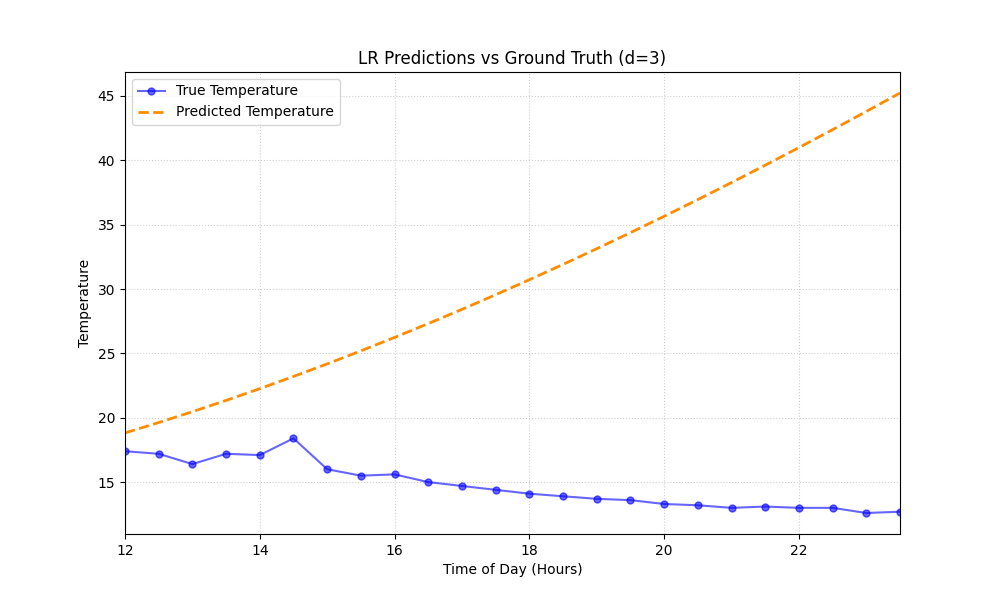
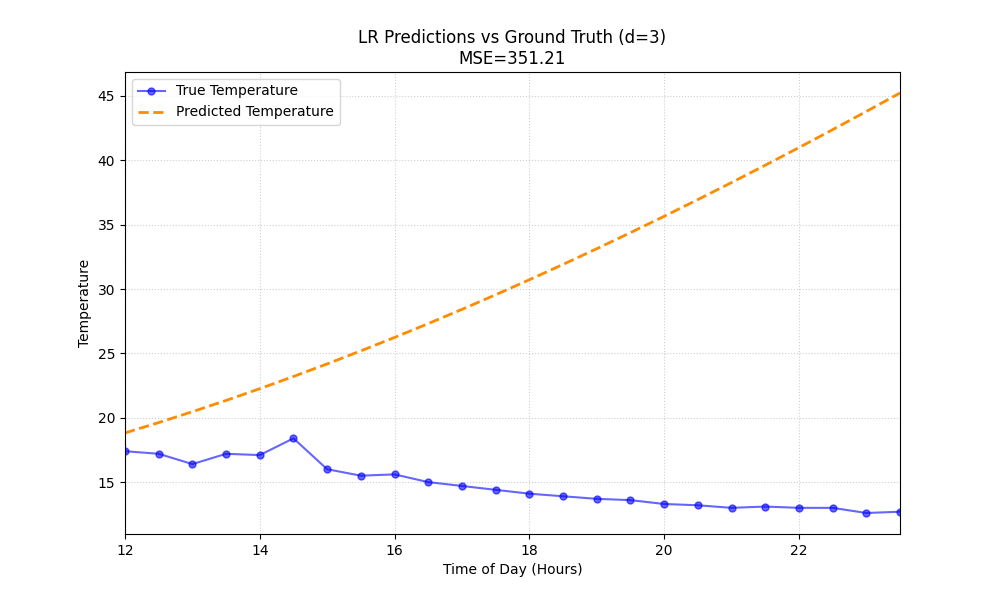
completed code for task 5 in the assignment

Changed region(s): [[0.341, 0.03, 0.682, 0.12]]

diff --git a/code/ex2.py b/code/ex2.py
@@ -1,10 +1,9 @@
+from matplotlib.lines import Line2D
 import numpy as np
 from matplotlib import pyplot as plt
 from typing import Callable
 from os import path
-from ex2_utils import plot_predictions_gt
-
-DATA_DIRECTORY = path.abspath('data/')
+from ex2_utils import plot_predictions_gt, DATA_DIRECTORY
 
 def polynomial_basis_functions(degree: int) -> Callable:
     """
@@ -63,7 +62,8 @@ def learn_prior(hours: np.ndarray, temps: np.ndarray, basis_func: Callable) -> t
     for i, t in enumerate(temps):
         ln = LinearRegression(basis_func).fit(hours, t)
         # todo <your code here>
-        thetas.append(None)  # append learned parameters here
+        theta_vec = ln.theta
+        thetas.append(theta_vec)  # append learned parameters here
 
     thetas = np.array(thetas)
 
@@ -112,9 +112,15 @@ class BayesianLinearRegression:
         """
         # todo <your code here>
         d_matrix = self.basis_functions(X)
-        if hasattr(self, 'post_mean'):
-            return d_matrix @ self.post_mean
-        return None
+        current_mean = self.prior_mean if not hasattr(self, 'post_mean') else self.post_mean
+        pred_mean = d_matrix @ current_mean
+        epistemic_variance = np.diag(d_matrix @ (self.prior_cov if not hasattr(self, 'post_cov') else self.post_cov) @ d_matrix.T)
+
+        total_variance = epistemic_variance + (self.sigma ** 2)
+
+        pred_std = np.sqrt(total_variance)
+        
+        return pred_mean, pred_std
 
     def fit_predict(self, X: np.ndarray, y: np.ndarray) -> np.ndarray:
         """
@@ -193,6 +199,114 @@ class LinearRegression:
         self.fit(X, y)
         return self.predict(X)
 
+def plot_predictions_for_bayesian_model(
+        train_hours: np.ndarray,
+        train_temps: np.ndarray,
+        predict_hours: np.ndarray,
+        predicted_mean_temps: np.ndarray,
+        pred_std: np.ndarray,
+        title: str,
+        save_path: str,
+        model: BayesianLinearRegression,
+        num_samples: int = 5
+    ):
+    """    
+    Args:
+    train_hours (np.array of shape (hours,)): The input hours used for training.
+    train_temps (np.array of shape (number of years, hours)): the observed temperatures used for training.
+    predict_hours (np.array of shape (hours,)): The input hours for which predictions are made.
+    predicted_mean_temps (np.array of shape (hours,)): The mean predicted temperatures from the model.
+    pred_std (np.array of shape (hours,)): The standard deviation of the predicted temperatures.
+    title (str): Title for the graph.
+    save_path (str): Path to save the plotted graph.
+    model: BayesianLinearRegression, the Bayesian linear regression model.
+    num_samples (int): Number of prior samples to plot.
+    """
+    plt.figure(figsize=(10, 6))
+    
+    plt.plot(train_hours, train_temps[0], color='gray', alpha=0.3, linewidth=1, label='Historical Data', zorder=1)
+    for i in range(1, len(train_temps)):
+        plt.plot(train_hours, train_temps[i], color='gray', alpha=0.3, linewidth=1, label='Historical Data', zorder=1)
+    
+    plt.plot(predict_hours, predicted_mean_temps, color='black', linewidth=3, label='Prior Mean', zorder=3)
+
+    plt.fill_between(predict_hours,
+                     predicted_mean_temps - pred_std, 
+                     predicted_mean_temps + pred_std, 
+                     color='blue', alpha=0.2, label='Confidence Interval (1$\sigma$)', zorder=2)
+    
+    jitter = 1e-6 * np.eye(len(model.prior_cov))
+    safe_cov = model.prior_cov + jitter
+    sampled_thetas = np.random.multivariate_normal(model.prior_mean, safe_cov, num_samples)
+    Phi_dense = model.basis_functions(predict_hours)
+    for i, theta_sample in enumerate(sampled_thetas):
+        # Calculate curve: y = Phi * theta
+        y_sample = Phi_dense @ theta_sample
+        plt.plot(predict_hours, y_sample, linestyle='--', linewidth=1, alpha=0.8, label=f'Prior Sample {i+1}', zorder=4)
+
+
+    # 5. Styling
+    plt.title(title)
+    plt.xlabel('Time of Day (Hours)')
+    plt.ylabel('Temperature')
+    plt.xlim(0, 24)
+    # Use a smart legend that doesn't show every single history line
+    handles, labels = plt.gca().get_legend_handles_labels()
+    # Filter out duplicate labels if necessary, though Matplotlib usually handles unique labels well
+    by_label = dict(zip(labels, handles))
+    if 'Historical Data' in by_label:
+        by_label['Historical Data'] = Line2D([0], [0], color='gray', linewidth=1)
+        
+    plt.legend(by_label.values(), by_label.keys(), loc='upper left', fontsize='small')
+    
+    plt.grid(True, linestyle='--', alpha=0.5)
+    plt.savefig(save_path)
+    
+    # plt.show()
+
+def classical_linear_regression(train_hours, train_temperature, test_hours, test_temperatures, degrees):
+    for d in degrees:
+        ln = LinearRegression(polynomial_basis_functions(d)).fit(train_hours, train_temperature)
+
+        # print average squared error performance
+        pred_mean = ln.predict(test_hours)
+        squared_errors = (test_temperatures - pred_mean) ** 2
+        mse = np.mean(squared_errors)
+        print(f'Average squared error with LR and d={d} is {mse:.2f}')
+        
+        # plot graphs for linear regression part
+        # todo <your code here>
+        plot_predictions_gt(hours=test_hours,
+                            true_temps=test_temperatures,
+                            predicted_temps=pred_mean,
+                            save_path=path.join(DATA_DIRECTORY, f'true_vs_pred_temps_d{d}_lr.png'),
+                            title=f'LR Predictions vs Ground Truth (d={d})\nMSE={mse:.2f}')
+
+def bayesian_linear_regression(degrees, hours, temps, sigma):
+    for deg in degrees:
+        pbf = polynomial_basis_functions(deg)
+        mu, cov = learn_prior(hours, temps, pbf)
+
+        blr = BayesianLinearRegression(mu, cov, sigma, pbf)
+
+        # plot prior graphs
+        hours_to_predict = np.arange(0, 24, 0.1)
+        pred_mean, pred_std = blr.predict(hours_to_predict)
+        plot_predictions_for_bayesian_model(
+            train_hours=hours,
+            train_temps=temps,
+            predict_hours=hours_to_predict,
+            predicted_mean_temps=pred_mean,
+            pred_std=pred_std,
+            deg=deg,
+            title=f'Bayesian LR - Prior Predictions (Degree={deg})',
+            save_path=path.join(DATA_DIRECTORY, f'bayesian_lr_prior_deg{deg}.png'),
+            model=blr,
+        )
+
+
+        # plot posterior graphs
+        # todo <your code here>
 
 def main():
     nov_16_path = path.join(DATA_DIRECTORY, 'nov162024.npy')
@@ -208,22 +322,7 @@ def main():
     degrees = [3, 7]
 
     # ----------------------------------------- Classical Linear Regression
-    for d in degrees:
-        ln = LinearRegression(polynomial_basis_functions(d)).fit(train_hours, train_temperature)
-
-        # print average squared error performance
-        predictions = ln.predict(test_hours)
-        squared_errors = (test_temperatures - predictions) ** 2
-        mse = np.mean(squared_errors)
-        print(f'Average squared error with LR and d={d} is {mse:.2f}')
-        
-        # plot graphs for linear regression part
-        # todo <your code here>
-        plot_predictions_gt(hours=test_hours,
-                            true_temps=test_temperatures,
-                            predicted_temps=predictions,
-                            save_path=path.join(DATA_DIRECTORY, f'true_vs_pred_temps_d{d}_lr.png'),
-                            title=f'LR Predictions vs Ground Truth (d={d})')
+    classical_linear_regression(train_hours, train_temperature, test_hours, test_temperatures, degrees)
 
     # ----------------------------------------- Bayesian Linear Regression
 
@@ -235,28 +334,15 @@ def main():
 
     # setup the model parameters
     sigma = 0.25
-    degrees = [3, 7]  # polynomial basis functions degrees
-
     # frequencies for Fourier basis
     freqs = [1, 2, 3]
-
     # sets of knots K_1, K_2 and K_3 for the regression splines
     knots = [np.array([12]),
              np.array([8, 16]),
              np.array([6, 12, 18])]
 
     # ---------------------- polynomial basis functions
-    for deg in degrees:
-        pbf = polynomial_basis_functions(deg)
-        mu, cov = learn_prior(hours, temps, pbf)
-
-        blr = BayesianLinearRegression(mu, cov, sigma, pbf)
-
-        # plot prior graphs
-        # todo <your code here>
-
-        # plot posterior graphs
-        # todo <your code here>
+    bayesian_linear_regression(degrees, hours, temps, sigma)
 
     # ---------------------- Gaussian basis functions
     for ind, K in enumerate(freqs):

diff --git a/code/ex2_utils.py b/code/ex2_utils.py
@@ -2,6 +2,8 @@ import numpy as np
 from scipy.ndimage import convolve
 from skimage.color import rgb2gray
 from matplotlib import pyplot as plt
+from os import path
+DATA_DIRECTORY = path.abspath('data/')
 
 def plot_predictions_gt(hours: np.ndarray, true_temps: np.ndarray, predicted_temps: np.ndarray, save_path: str, title: str = 'Predictions vs Ground Truth'):
     """
@@ -41,7 +43,7 @@ def temps_example():
     """
     An example of how to load the temperature data. Note that there are 2 data sets here
     """
-    X = np.load('jerus_daytemps.npy')
+    X = np.load(path.join(DATA_DIRECTORY, 'jerus_daytemps.npy'))
     hours = [2, 5, 8, 11, 14, 17, 20, 23]
     plt.figure()
     for i in range(X.shape[0]):
@@ -50,11 +52,11 @@ def temps_example():
     plt.xlabel('hour')
     plt.ylabel('temperature [C]')
 
-    y = np.load('nov162020.npy')
+    y = np.load(path.join(DATA_DIRECTORY, 'nov162024.npy'))
     hours = np.arange(0, 24, .5)
     plt.figure()
     plt.plot(hours, y, lw=2)
-    plt.title('Temperatures on November 16 2020')
+    plt.title('Temperatures on November 16 2024')
     plt.xlabel('hour')
     plt.ylabel('temperature [C]')
     plt.show()
